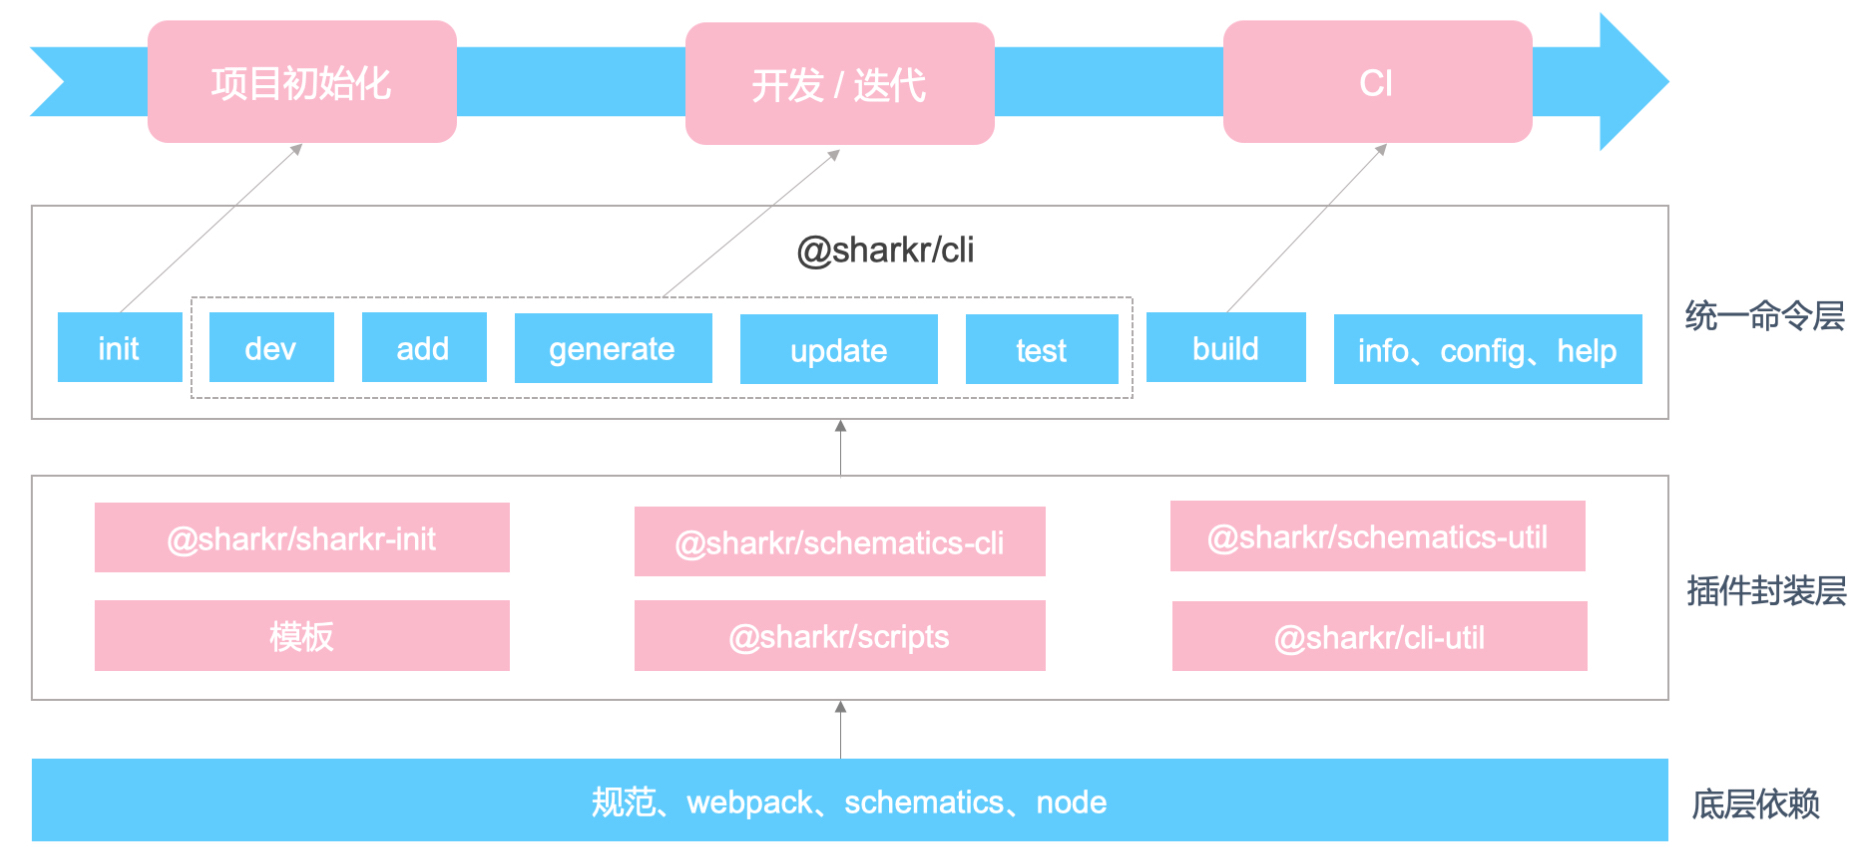
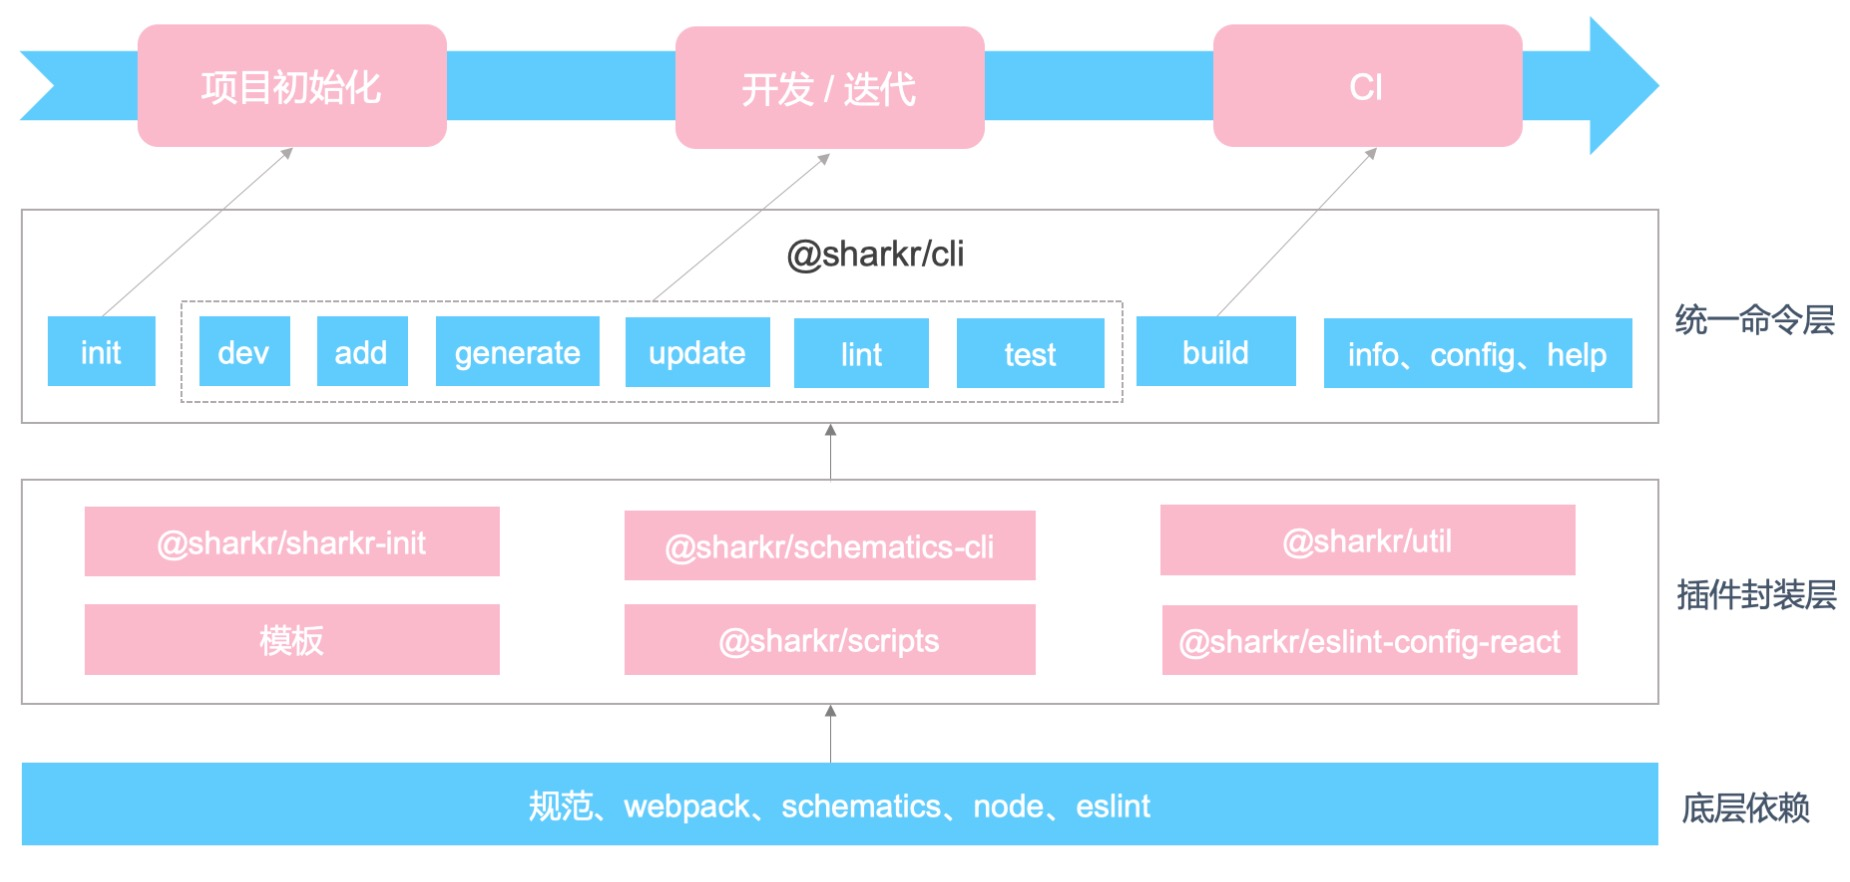
change: 修改严选工程化实践

diff --git a/source/_posts/严选工程化实践.md b/source/_posts/严选工程化实践.md
@@ -8,3 +8,255 @@ tags:
     - cli
     - 方案设计
 ---
+> 前端日益发展，从最初的 HTML、CSS、JavaScript 三大基础，到后来的jQuery、Backbone、AngularJS，再到现在的 Angular、React、Vue 三大框架流行，技术的演进既带来了更多的可能，也带来了一些问题。例如：团队如何高效合作、项目如何统一维护、代码如何规范等等。前端工程化的出现，就是为了解决这些日益突出的问题。它旨在制订规范化的前端工作流，并规范统一项目的模块化开发和前端资源，让代码的维护和互相协作更加容易更加方便。
+
+今年我们团队由 angular 技术栈转变成 react 技术栈，在这个大背景下，我们急需一套完善的工程化方案来帮助技术栈落地。在通过确定目标、定义规范、技术调研、开发实现等一系列步骤之后，制定了一套完善的工程化方案。它帮助解决开发流程中的问题，让开发更加专注业务本身，提高整个系统生产效率。
+
+# 1. 目标定义
+作为一个工程化方案，最终的目标是尽可能解决项目生命周期里遇到的问题，例如：
+
+1. 规范保障
+
+    每个团队都会根据实践经验，总结出一套自己的规范（项目规范和流程规范）。让这一套规范在落地到实际的开发中时，除了人为的约束，更多的应该是通过工具约束。工程化就是把团队的经验沉淀到脚手架和开发套件中，让新项目或新成员可以复用这些经验。
+
+2. 提效
+
+    一个好的工程化方案，是可以提升开发效率的，这个提效包括初始化项目，完备项目的dev环境，数据mock，build打包等一系列流程，既要让项目“搭建-开发-部署”更快捷高效，也要方便项目的后期维护和迭代。
+
+3. 减少人力
+
+    在开发过程中可能会遇到一些重复人力的工作。例如A、B两个系统有一个相似的列表页，这个列表页不能作为组件抽离，但是又在多处能用到，这部分资源（代码模板）复用急需一个中间媒介来完成。
+
+    假如资源/项目需要升级了，大多情况是资源开发者出一个升级文档，然后升级的人按照文档一步步修改。这是很重复的一份工作，因为假如你手上有十个项目，你就需要把相同的事情做十遍，这一步重复的工作我们希望可以通过工具来完成。
+
+同时，我们的工程化方案应该符合以下四个特点：
+1. 渐进式（技术演化能力）易于迭代
+2. 扩展性（可伸缩、可插拔）易于部门共建
+3. 易用性（贴合实际）易落地
+4. 数据统计与分析
+
+# 2. 方案设计
+
+基于以上的目标，下面来看一下整个工程化的方案设计。
+
+首先，介绍整个方案的架构图：
+
+{% asset_img 1.jpg This is an image %}
+
+## 2.1 架构图
+可以看到整个架构图分为四层：
+
+### 2.1.1 底层依赖
+最底层依赖了规范、webpack、schematics、node、eslint，它是上次架构的基石。
+- 规范这里包括了项目规范和流程规范，是整套方案需要遵守的约定；
+
+    因为这套规范是根据大量的实际业务总结出来的，所以它是贴合业务场景，便于整体方案落地的。
+
+- schematics 引入主要是为了解决上面说到的资源相关的问题，后面会详细讲到。
+
+### 2.1.2 插件封装层
+这一层主要是对上层需要实现的功能做一个划分，然后通过插件的形式实现。例如：
+- 将一系列模板抽离作为一个集合，然后将项目初始化时需要做的模板选择和模板处理放到 init 插件中完成，不同团队可以根据规范自定义插件；
+- 开发编译阶段需要的 webpack 和 server、build 脚本放在 @sharkr/scripts 插件中完成，不同团队可以根据规范自定义插件；
+- 前面说到的资源复用和资源升级问题，统称为文件处理相关，@sharkr/schematics-cli 插件提供这个能力；
+- @sharkr/eslint-config-react 插件提供 eslint 检查；
+- 还有一部分公共能力封装成 util 插件，方便共享。
+
+这种插件的方式可以使工具具有很强的扩展性，在跟其他团队共建时，可以很方便的做一些自定义，但是又符合统一的规范。
+
+### 2.1.3 统一命令层
+第三层是统一命令层，这一层做的事情就是，最终对用户暴露一个统一的工具 @sharkr/cli ，在 cli 里去规范常用的一些命令，当然这些命令的具体实现都是调用下一层的插件。这些命令会应用到项目开发的生命周期中去。
+
+在这一层中会添加埋点，用于收集命令、项目、使用包等相关情况，以便做数据的统计与分析，了解实际落地情况，也为未来迭代版本提供有效参考。
+
+### 2.1.4 项目生命周期
+项目生命周期，就是指项目从初始化，到开发（或后期迭代），再到CICD的这么一个周期。可以看到下一层的命令大多都可以对应到项目生命周期中，例如：
+- init 完成项目初始化
+- dev 可以使开发者快速的进入开发
+- add 可以给项目增加一个资源
+- generate 可以执行资源里定义的命令
+- update 帮助快速升级资源
+- lint 编码规范校验
+- test 对开发过程中的代码做一个测试
+- build 在CI阶段可以帮助完成编译打包
+
+通过这整个架构可以看到，我们的工具可以介入到项目生命周期里的所有环节，那么这些环节有的一些问题和痛点，也可以通过工具去解决。下面将会从项目生命周期的角度讲解一下我们工程化的一个具体方案。
+
+## 2.2 项目初始化
+首先，在项目初始化过程中需要解决的一个问题就是：帮助规范落地。
+
+把规范分为项目规范和流程规范，流程规范上面也介绍了，通过工具做了一个约束，那么项目规范怎么在初始化的时候落地呢？
+
+我们的做法是，将这部分规范落地到模板当中，用户通过 @sharkr/cli 去 init 项目，选择合适的模板，init 插件完成模板处理，然后就初始化了一个符合规范的项目。
+
+这里提到选择合适模板，init 插件完成模板处理，那 init 插件是怎么做的呢？
+
+### 2.2.1 init 插件
+每个团队都会有一些常用的业务场景，例如我们B端，会维护好几个模板，纯 web 的、带 node server 的、应用于微应用的，那么这一系列模板作为一个集合，配套的会出一个相应的 init 插件，这个插件可以完成这系列模板的初始化处理。
+
+执行 init 命令时，cli 调用对应的 init 插件，用户根据提示输入项目相关配置项，init 插件根据配置项处理模板。
+
+假如说其他团队也有自己的模板，那么同样的，他们也可以根据规范提供模板配套的 init 插件供 cli 调用，方便共建。
+
+这是插件的一个优势，可以方便扩展自定义的部分，但是它也带来了一个小问题。这部分插件不是很稳定，可能经常需要更新，它的频繁更新会给用户带来影响。这就需要有一个较好的插件更新机制，方便迭代。
+
+### 2.2.2 插件更新
+先来看一下最初采用的插件更新机制，如下图：
+
+{% asset_img 2.jpg This is an image %}
+
+1. 用户执行 sr init myapp，调用 @sharkr/cli 
+2. @sharkr/cli 检查 init 插件版本
+3. 发现版本不是最新的，提示用户 update @sharkr/cli
+4. 用户全局 update @sharkr/cli
+5. 再次执行 sr init myapp, 调用 @sharkr/cli
+6. @sharkr/cli 调用最新的 init 处理
+
+这种方式需要用户经常手动更新，不是很友好，所以在后来方案设计时，改用了 npx 的方式调用 init 插件
+
+> npx 是 npm5.2 版本中新增的命令，它能临时下载一个模块并且运行它，运行之后再删除这个模块
+
+{% asset_img 3.jpg This is an image %}
+
+1. 用户执行 sr init myapp，调用 @sharkr/cli 
+2. @sharkr/cli 使用 npx 调用最新的 init 插件处理
+
+通过方案二，可以看到使用 npx 的方式调用插件，可以使用户在任何时候使用 init 命令都能调用最新的 init 插件完成项目初始化。
+
+说完了项目初始化，再来看一下开发/迭代过程中会遇到哪些问题。
+
+## 2.3 开发/迭代
+完成项目初始化进入开发阶段，这个阶段应该是关注业务本身、减少重复工作、高效快速的。
+
+### 2.3.1 dev 环境
+开始项目开发遇到的第一个问题就是 dev 环境。需要 webpack 配置编译代码、需要一个本地 server、需要一个数据转发、需要 eslint 配置规范编码等。
+
+这一部分可以通过 @sharkr/scripts 提供 webpack 配置和 server 脚本，在模板里集成调用，用 koa 起一个本地服务，koa 中间件完成转发等。@sharkr/eslint-config-react 定义编码规范。在这个环节规范了流程和配置，有效的保障项目质量。
+
+有了一个完备的 dev 环境，再来看一下前面说到的资源复用和资源/项目升级。
+
+### 2.3.2 资源复用和资源/项目升级
+#### 资源复用
+简单把资源分为两类，一类是有固定输入输出，可抽离的，例如时间控件，下拉列表等；还有一类是无固定输入输出，不可抽离，但是又具有某些共性的，例如B端常见的列表页、详情页，这一部分资源没有一个很好的复用方式。
+
+对于第一类资源，可以采用封装组件的形式完成资源共享：
+
+{% asset_img 4.jpg This is an image %}
+
+对于第二类资源，以前的做法基本是 Ctrl+c、Ctrl+v 来复用，这种做法不够高级，还效率不高，所以在 cli 中提供了另外一种做法，那就是将代码模板抽离到一个 schematic 包里，然后通过 @sharkr/cli 来安装这个包，并且执行里面的 schematic。
+
+{% asset_img 5.jpg This is an image %}
+
+#### 资源/项目升级
+同样的，假如项目或者是资源需要升级，就需要在项目中升级依赖，可能还需要修改配置、甚至调整目录结构、修改api调用等。这种升级以前的做法是，出一份升级文档，升级者按照文档一步步修改项目完成升级。假如有几十个项目，就需要几十个人做相同的事几十遍，这无疑是一个大的人力消耗，作为一个提效工具，就是需要将这部分重复的工作通过代码完成。
+
+{% asset_img 6.jpg This is an image %}
+
+- 把升级文档里做的事情编写成 schematic 包
+- 通过 @sharkr/cli 来安装这个包，并且执行里面的 schematic
+
+这么一看，好像很简单，不管是资源复用，还是项目升级，都写成 schematic 包就好了，那么schematic到底是什么呢？
+
+### 2.3.3 schematics
+#### 简介 
+schematics 是 ngCli 团队开发的一个强大和通用的工作流程工具，开发者可以将变换应用于项目中，例如：创建新组件、添加配置项、修改现有项目，或者更新你的代码来修复更新依赖时带来的 break change。
+
+#### 原理 
+schematics 如它名字一样，可以理解为一个描述了具体操作的原理图。
+
+schematics 的输入是一个树，包含一个基础区域（一组已经存在的文件）和一个临时区域（要应用于基础区域的更改列表）），schemtics 描述了对 Tree 的修改，并将这些修改合并到临时区域的更改列表中，再往外输出一个新的 Tree。
+
+在整个操作完结，并得到确认后，链条中所有描述的修改才会真正被应用。
+
+[更多schematics知识>>](https://angular.io/guide/schematics)
+
+#### 优势 
+和常规的js脚本工具相比，它的优势在哪呢？
+
+- 开发便捷
+
+    提供了丰富而强大的通用能力，帮助开发者快速开发：在 code generate 领域，可以通过使用其模板能力，构建各种类型的动态场景代码模板，快速生成代码。同时还提供了丰富的 util，提供包括 ast、git 初始化、TslintFixTask tslint 处理等能力。
+
+- 易于调试 
+
+    schmatics 由于其虚拟树的设计，在开发阶段支持干运行，并不会对文件系统执行任何直接操作，方便开发者在项目中进行调试，安全无污染。
+
+- 可扩展性和可重用性
+
+    从其原理可以看出，schmatics 的整体设计，遵循了函数式范式，schematics 不会产生副作用（副作用只会被记录在缓存区中），具备原子性。schematics 可以自由 Compose 成新的 schematics。
+
+- 测试友好
+
+    schmatics 提供了完备的测试支持库，测试用例书写没有障碍。
+
+#### schematics 封装
+既然 schematics 处理文件很友好，而且刚好能解决文件处理问题，于是我们就引入了 schematics 完成文件处理，并对它做了一层封装。
+
+{% asset_img 7.jpg This is an image %}
+
+- 最底层主要依赖 @angular-devkit/schematics 和 @angular-devkit/core 提供 schematics 基础能力；
+- 将公共能力提取到 @schematics/util 方便开发调用；
+- 提供 schematics 开发模板，方便开发新建 schematics 包；封装 schematics 的 cli，也就是说它也可以单独调用命令；
+- 资源（通用资源、项目改造资源、模板升级资源等）会做一些整合，这些资源集合将作为物料维护在物料海，将来会跟我们正在开发的物料平台对接；
+- 向上暴露所有的命令，最终在 @sharkr/cli 作为统一出口。
+
+下面再来看下，开发和使用一个 schematics 包需要做点什么呢？
+
+{% asset_img 8.jpg This is an image %}
+
+首先，对于开发者来说，需要做以下三步：
+
+1. 根据 schematics 规范开发一个 schematics 包
+2. 定义配置项（可选）
+3. 定义 schema 命令
+
+其次，对于用户来说，需要做以下三步：
+
+1. 使用 @sharkr/cli 调用 schematics 包
+2. 输入配置（可选）
+3. 完成项目修改
+
+那么 @sharkr/cli 做了什么了？
+
+1. @sharkr/cli 调用 @sharkr/schematics 插件
+2. schematics 插件解析出自定义配置项，生成用户会话
+3. 根据用户会话拿到 option，传入 option 调用 Rule 函数
+4. 修改文件放到暂存区
+5. 确认修改后更新物理文件
+
+这里 Rule 函数是需要开发者实现的，任何你想写成文档的都能通过代码方式写在这个 Rule 函数里。
+
+#### schematics 实践
+
+下面来看一个实际的例子：前段时间我们的项目都需要完成服务上云，为了实现上云，需要调整下CI脚本，还要往项目里放一些环境配置文件，涉及到多处文件修改和增加，所以我们写了一个 @sharkr/ng-cloud-add 的 schematics 包达到快速改造项目的目的。以下是效果：
+
+{% asset_img 9.jpg This is an image %}
+
+核心代码写起来跟写文档类似：
+
+{% asset_img 10.jpg This is an image %}
+
+以上就讲完了在开发/迭代过程中遇到的问题和解决方案，最后再看一下CICD阶段做了什么
+
+## 2.4 CI
+这部分跟 dev 环境类似，也需要提供 webpack 配置、build 脚本、还约束了 build 打包后的目录规范、配置部署相关文件。
+
+# 3. 价值与后续计划
+## 3.1 价值
+通过介绍以上的一些方案设计，可以发现这套工具可以让开发更专注业务本身，初始化项目之后就可以直接进入开发；重复的Ctrl+c、Ctrl+v可以通过 schematics 完成，省去重复的人力成本；项目/资源升级可以更加快速推进；规范和文档沉淀到工具中供使用，非常有利于规范的遵守。
+
+## 3.2 后续计划
+接下来长远的规划将会从以下两点展开：
+
+1. 与资源平台结合。目前放在 schematics 包里的资源没有一个很好的展示平台，后续将会对接正在开发的物料平台，让资源更容易被共享。
+2. vscode 可视化扩展能力。为了让开发在开发过程中更加快捷高效，后续会结合 vscode 的插件能力，让添加资源更容易。
+
+# 4.总结
+本篇分享主要从四个方面对工程化实践做了一个阐述：
+
+1. 开发规范的落地依赖模板收敛项目规范，cli 工具收敛流程规范的方式，并在初始化项目时将模板应用于实际项目场景。
+2. cli 工具的扩展依赖于插件式，对于自定义的部分提供相应插件即可扩展，而插件的更新依赖 npx 调用的方式，解决用户需要频繁更新问题。
+3. 方便快速初始化项目，提供完备的 dev 环境和 build 脚本等提升了开发效率。
+4. 资源复用和资源/项目升级统称为文件处理，这部分借用了 angular 里的 schematics 功能来完成。在这部分还讲了什么是 schematics 以及它在 cli 里做了什么。
+
+以上。
